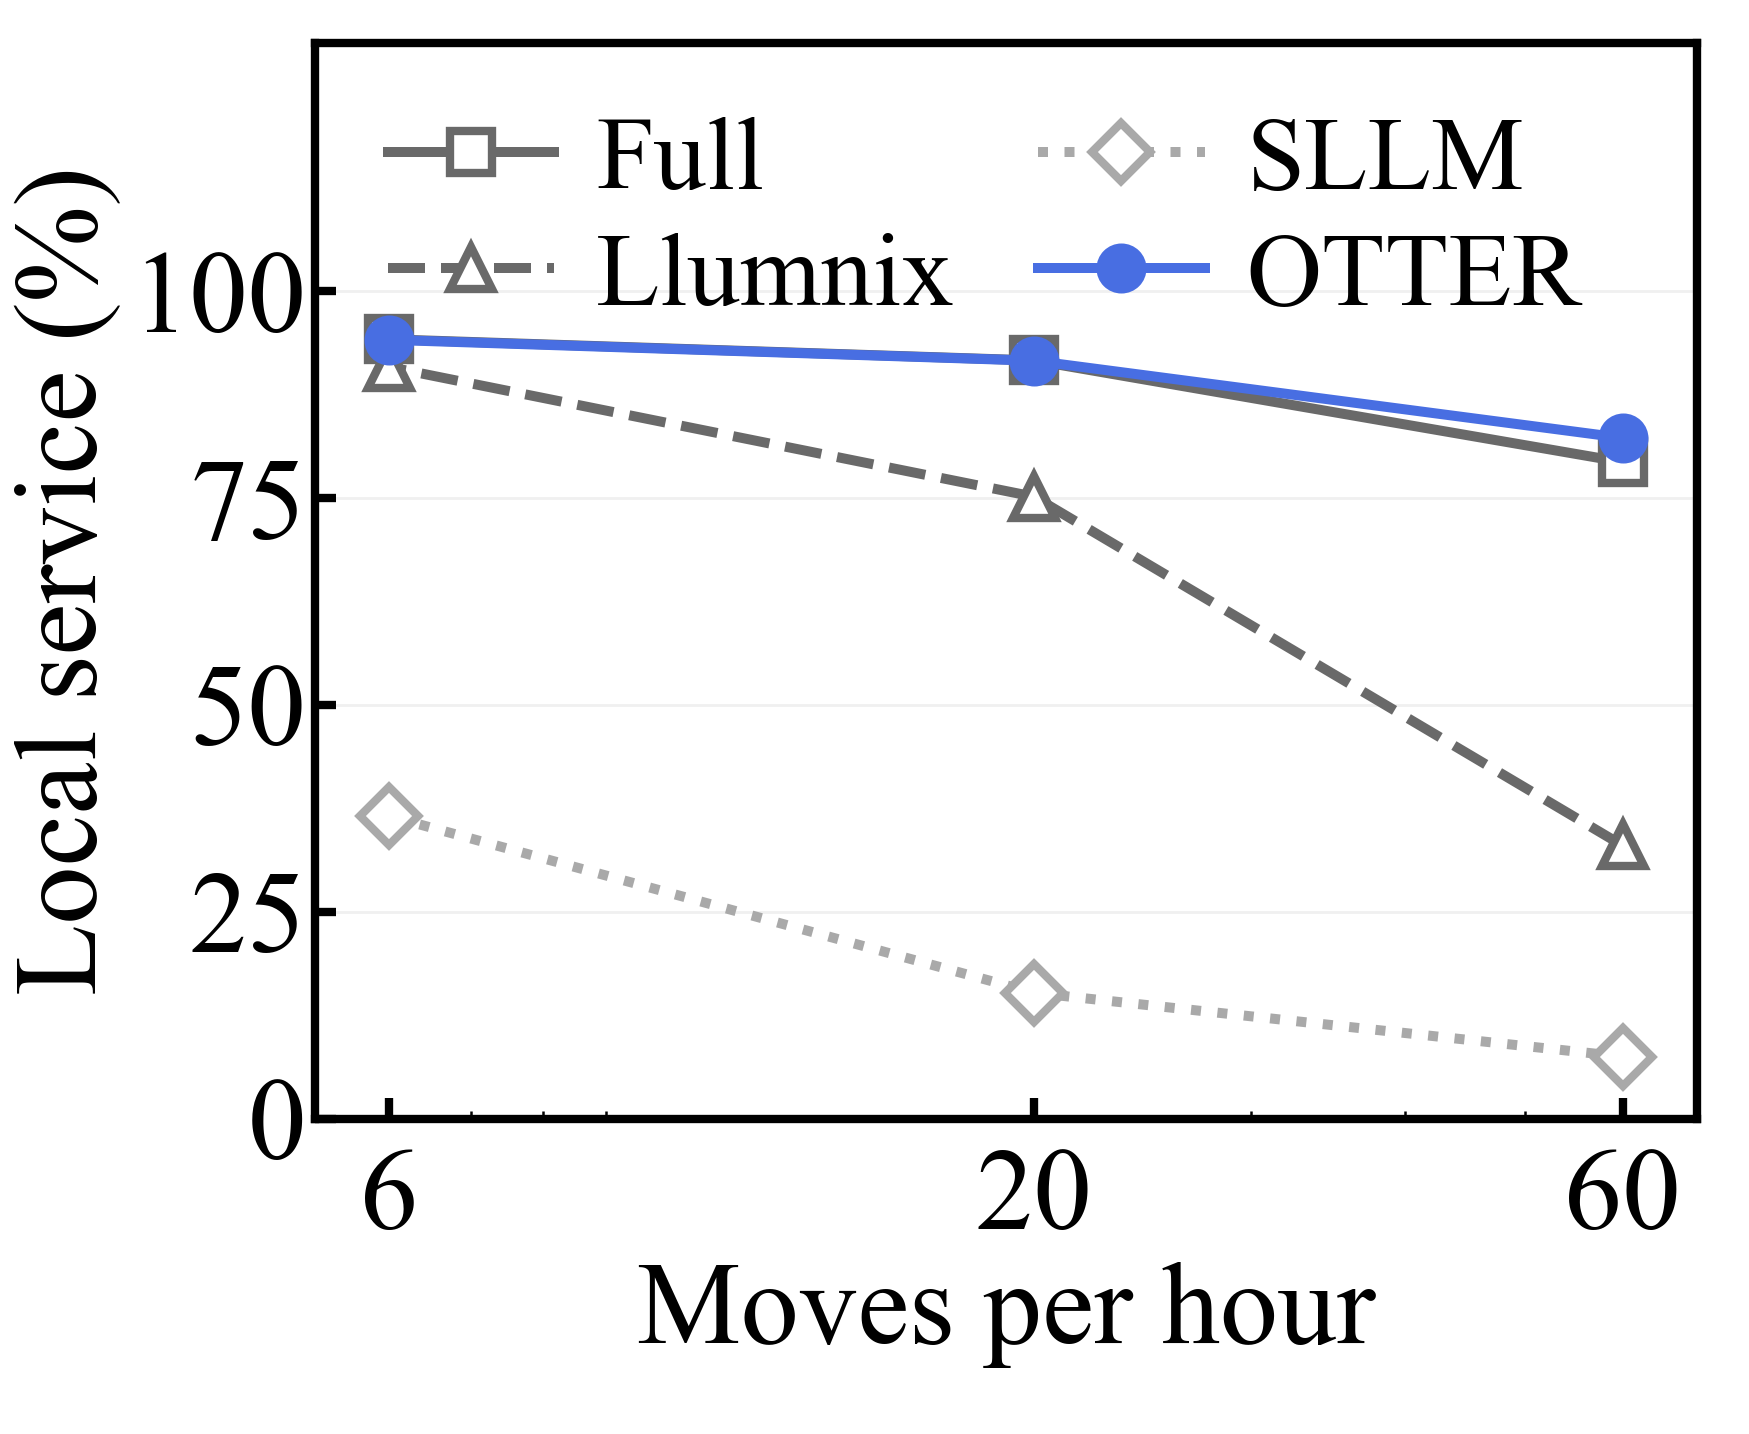
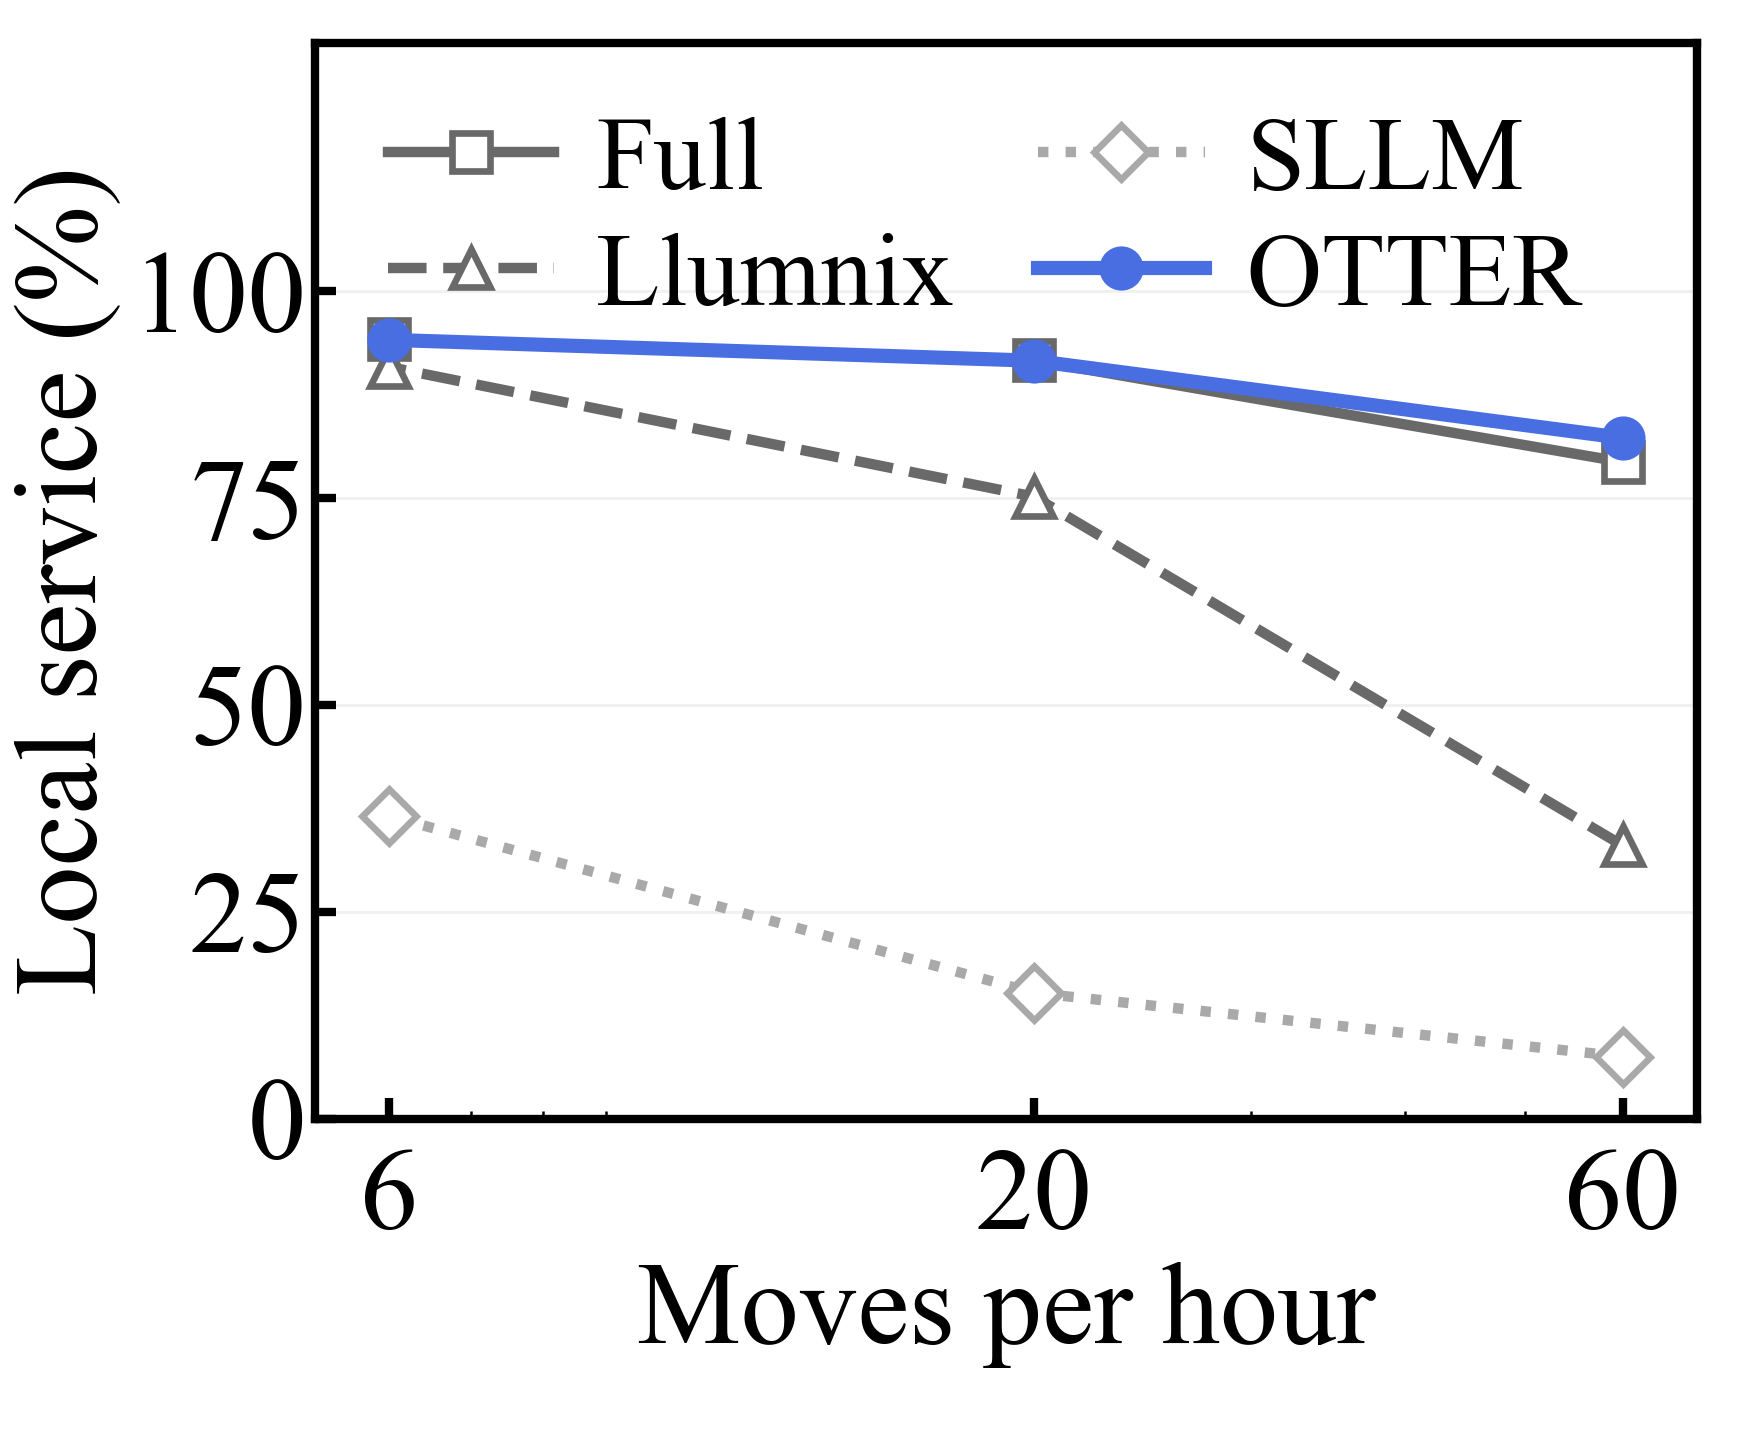
figc_m_*: line widths and markers of fig12a (OTTER 3.4, baselines 2.5, ms 9, mew 1.6), user 2026-11-04

diff --git a/tools/sim/plot_cluster.py b/tools/sim/plot_cluster.py
@@ -111,7 +111,8 @@ def main_panel(runs, metric, ylabel, out, logy):
     hs = []
     for m, s in ser.items():
         c, mk, ls = STYLE[m]
-        kw = dict(color=c, marker=mk, ls=ls, lw=2.4, ms=10, mfc="white" if m != "otter" else c, mew=2)
+        # line widths and marker size of fig12a (plot_fig12: OTTER 3.4, baselines 2.5, ms 9, mew 1.6), user 2026-11-04
+        kw = dict(color=c, marker=mk, ls=ls, lw=3.4 if m == "otter" else 2.5, ms=9, mfc="white" if m != "otter" else c, mec=c, mew=1.6)
         ax.plot([3600 / d for d, _ in s], [y for _, y in s], zorder=4 if m == "otter" else 3, **kw)
         hs.append(Line2D([], [], label=LABEL[m], **kw))
     ax.set_xscale("log"); ax.xaxis.set_minor_formatter(NullFormatter())
